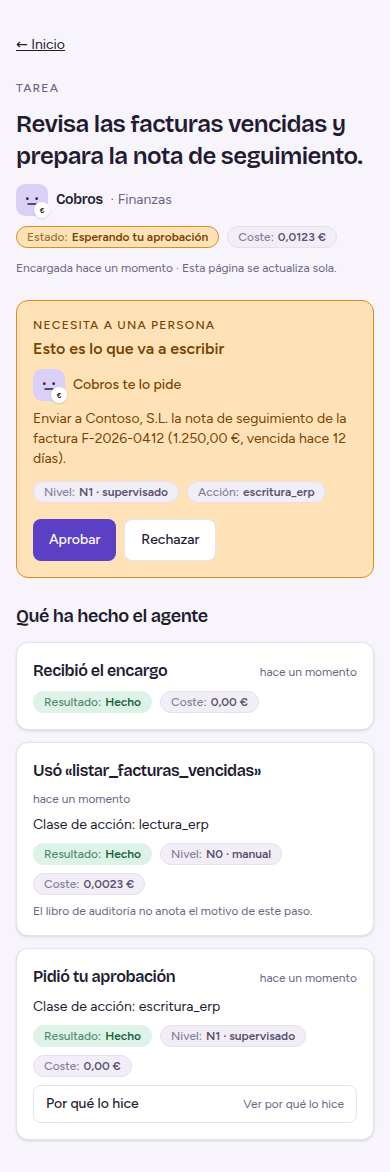
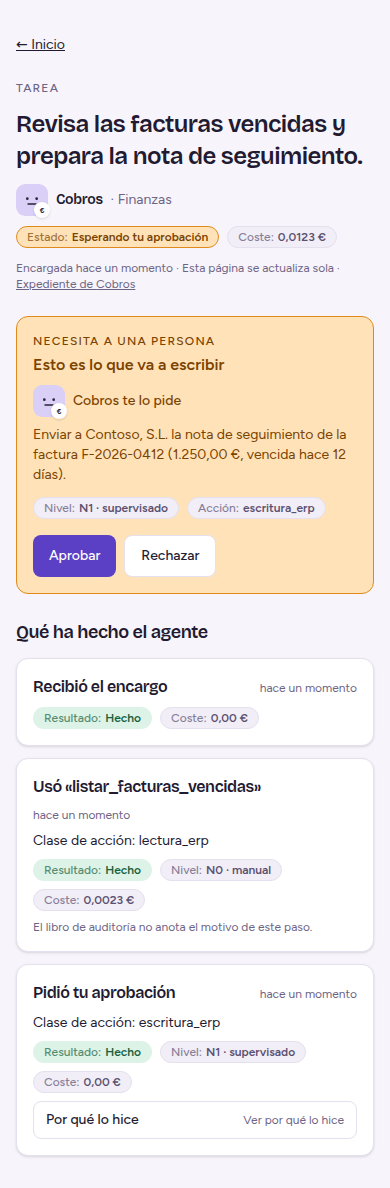
feat: prueba E2E, capturas del expediente y regeneración de las del detalle
Claude-Session: https://claude.ai/code/session_01VFp3iiGfi9AP9vTJZdtzwf

diff --git a/e2e/expediente.spec.ts b/e2e/expediente.spec.ts
@@ -1,0 +1,252 @@
+import { expect, test, type Page } from '@playwright/test';
+
+/**
+ * Expediente por agente en el panel (docs/specs/expediente-por-agente-n0-n1.md):
+ * se llega desde la tarjeta del agente en el Inicio y desde el detalle de la tarea,
+ * se ve el nivel por clase de acción con su historial, el avance hacia el ascenso,
+ * las lecciones y lo que la política rechazó. Solo lectura.
+ *
+ * Igual que `e2e/detalle-tarea.spec.ts`, el arnés solo arranca `apps/web`: la API se
+ * simula con `page.route`. Todos los datos son de prueba. Las capturas van a
+ * `docs/producto/capturas/`.
+ */
+
+const CAPTURAS = 'docs/producto/capturas';
+const hace = (dias: number) => new Date(Date.now() - dias * 86_400_000).toISOString();
+
+const EXPEDIENTE = {
+  puestoId: 'p-cobros',
+  nombre: 'Cobros',
+  departamento: 'Finanzas',
+  estado: 'activo',
+  versionActiva: { versionPuestoId: 'v3', numero: 3 },
+  versiones: [
+    {
+      versionPuestoId: 'v1',
+      numero: 1,
+      creadaEn: hace(60),
+      niveles: { lectura: 'n3', escritura: 'n0', comunicar: 'n1', gastar: 'n0' },
+      clasesProhibidas: [],
+      lecciones: [],
+    },
+  ],
+  clases: [
+    {
+      claseAccion: 'comunicar',
+      nivel: 'n1',
+      prohibida: false,
+      ascenso: null,
+      sinAscenso: 'fijo',
+      historial: [],
+    },
+    {
+      claseAccion: 'escritura',
+      nivel: 'n1',
+      prohibida: false,
+      ascenso: {
+        de: 'n1',
+        a: 'n2',
+        acciones: { actual: 12, requerido: 30, cumplido: false },
+        aprobadasSinCambiosPct: { actual: 96.8, requerido: 95, cumplido: true },
+        diasSinIncidentes: { actual: 21, requerido: 30, cumplido: false },
+        confirmacion: { confirmada: false, cumplido: false },
+        cumplidos: 1,
+        total: 4,
+      },
+      sinAscenso: null,
+      historial: [
+        {
+          claseAccion: 'escritura',
+          de: 'n0',
+          a: 'n1',
+          versionPuestoId: 'v3',
+          numeroVersion: 3,
+          fecha: hace(21),
+          leccionId: 'l1',
+          decididaPorPersonaId: 'persona-1',
+        },
+      ],
+    },
+    {
+      claseAccion: 'gastar',
+      nivel: 'n0',
+      prohibida: false,
+      ascenso: null,
+      sinAscenso: 'sin_criterio',
+      historial: [],
+    },
+    {
+      claseAccion: 'lectura',
+      nivel: 'n3',
+      prohibida: false,
+      ascenso: null,
+      sinAscenso: 'nivel_maximo',
+      historial: [],
+    },
+  ],
+  lecciones: [
+    {
+      leccionId: 'l1',
+      titulo: 'Saluda por el nombre',
+      linea: 'Empieza las notas saludando por el nombre de la persona.',
+      estado: 'vigente',
+      promocionId: 'pr1',
+      versionPuestoId: 'v3',
+    },
+    {
+      leccionId: 'l2',
+      titulo: 'Firma con el equipo',
+      linea: 'Firma las notas como «El equipo de Finanzas».',
+      estado: 'propuesta',
+      promocionId: null,
+      versionPuestoId: null,
+    },
+  ],
+  rechazadas: [
+    {
+      numeroOrden: 7,
+      tareaId: 't-1',
+      claseAccion: 'gastar',
+      herramienta: 'pagar_factura',
+      nivel: 'n0',
+      costeEuros: 0,
+      porque: 'Gastar es N0 fijo: el agente propone y una persona actúa.',
+      creadoEn: hace(2),
+    },
+  ],
+  totalRechazadas: 1,
+};
+
+const AGENTES = [
+  {
+    puestoId: 'p-cobros',
+    nombre: 'Cobros',
+    estado: 'activo',
+    departamentoId: 'd1',
+    departamento: 'Finanzas',
+    salaId: null,
+    origenPlantilla: true,
+    tareaEnCurso: null,
+    ultimasCompletadas: [],
+  },
+];
+
+async function montarApi(page: Page, expediente: () => { estado: number; cuerpo: unknown }) {
+  await page.route('**/api/inicio/agentes', (r) => r.fulfill({ json: { agentes: AGENTES } }));
+  await page.route('**/api/inicio/avisos', (r) => r.fulfill({ json: { avisos: [] } }));
+  await page.route('**/api/contador', (r) =>
+    r.fulfill({ json: { consumo: { tareas: 1, costeModelosEuros: 0.0123 } } }),
+  );
+  await page.route('**/api/perfil', (r) =>
+    r.fulfill({ json: { mostrarPresencia: true, disposicionPanel: [] } }),
+  );
+  await page.route('**/api/sala/**', (r) =>
+    r.fulfill({ status: 503, json: { error: 'Sala no disponible en la prueba.' } }),
+  );
+  await page.route('**/api/puestos/*/expediente', (r) => {
+    const { estado, cuerpo } = expediente();
+    return r.fulfill({ status: estado, json: cuerpo });
+  });
+}
+
+test('desde la tarjeta del agente se abre el expediente: niveles, ascenso, lecciones y rechazadas', async ({
+  page,
+}) => {
+  await page.setViewportSize({ width: 1180, height: 900 });
+  await montarApi(page, () => ({ estado: 200, cuerpo: { expediente: EXPEDIENTE } }));
+
+  await page.goto('/panel/inicio?fuenteSimulada=1');
+  await page.getByRole('link', { name: 'Expediente de Cobros' }).click();
+  await expect(page).toHaveURL(/\/panel\/inicio\/agente\/p-cobros\/expediente$/);
+  await expect(page.getByRole('heading', { name: 'Cobros', level: 1 })).toBeVisible();
+  await expect(page.getByTestId('expediente-version')).toContainText('3');
+
+  // Una clase N1 con sus cuatro criterios.
+  const ascenso = page.getByTestId('ascenso-escritura');
+  await expect(ascenso).toContainText('1 de 4 criterios cumplidos');
+  await expect(ascenso.getByRole('meter')).toHaveCount(4);
+  await expect(page.getByTestId('criterio-escritura-acciones')).toContainText('12 de 30');
+  await expect(page.getByTestId('criterio-escritura-aprobadas')).toContainText('96,8 %');
+  await expect(page.getByTestId('historial-escritura')).toContainText(
+    'Subió de N0 · manual a N1 · supervisado',
+  );
+
+  // Una clase fija no enseña barra.
+  await expect(page.getByTestId('sin-ascenso-comunicar')).toContainText('Fijo en N1');
+  await expect(page.getByTestId('clase-comunicar').getByRole('meter')).toHaveCount(0);
+
+  // Lecciones y rechazadas con su porqué y su enlace a la tarea.
+  await expect(page.getByTestId('lecciones')).toContainText('Vigente');
+  await expect(page.getByTestId('rechazadas')).toContainText('«pagar_factura»');
+  await page.getByRole('button', { name: /Por qué lo hice/ }).click();
+  await expect(page.getByTestId('rechazadas')).toContainText('Gastar es N0 fijo');
+  await expect(page.getByRole('link', { name: 'Ver en la tarea' })).toHaveAttribute(
+    'href',
+    '/panel/inicio/tarea/t-1#paso-7',
+  );
+
+  // Solo lectura: ningún botón de escritura ni formulario.
+  await expect(page.locator('form, input, select, textarea')).toHaveCount(0);
+  await expect(page.getByRole('button', { name: /subir|bajar|promocionar|aprobar/i })).toHaveCount(
+    0,
+  );
+
+  await page.screenshot({ path: `${CAPTURAS}/expediente-1-escritorio.png`, fullPage: true });
+});
+
+test('el expediente se ve en el móvil sin desbordar la pantalla', async ({ page }) => {
+  await page.setViewportSize({ width: 390, height: 844 });
+  await montarApi(page, () => ({ estado: 200, cuerpo: { expediente: EXPEDIENTE } }));
+  await page.goto('/panel/inicio/agente/p-cobros/expediente?fuenteSimulada=1');
+  await expect(page.getByTestId('ascenso-escritura')).toBeVisible();
+  const desborda = await page.evaluate(
+    () => document.documentElement.scrollWidth > document.documentElement.clientWidth,
+  );
+  expect(desborda).toBe(false);
+  await page.screenshot({ path: `${CAPTURAS}/expediente-2-movil.png`, fullPage: true });
+});
+
+test('estado vacío: sin lecciones ni rechazadas lo dice', async ({ page }) => {
+  await page.setViewportSize({ width: 1180, height: 900 });
+  await montarApi(page, () => ({
+    estado: 200,
+    cuerpo: {
+      expediente: {
+        ...EXPEDIENTE,
+        versiones: [{ ...EXPEDIENTE.versiones[0], numero: 1 }],
+        versionActiva: { versionPuestoId: 'v1', numero: 1 },
+        clases: EXPEDIENTE.clases.map((c) => ({ ...c, historial: [] })),
+        lecciones: [],
+        rechazadas: [],
+        totalRechazadas: 0,
+      },
+    },
+  }));
+  await page.goto('/panel/inicio/agente/p-cobros/expediente?fuenteSimulada=1');
+  await expect(page.getByTestId('lecciones-vacio')).toContainText('Todavía no ha aprendido nada');
+  await expect(page.getByTestId('rechazadas-vacio')).toContainText('ninguna acción');
+  await page.screenshot({ path: `${CAPTURAS}/expediente-3-vacio.png`, fullPage: true });
+});
+
+test('estado de error: si no carga, lo dice y reintenta', async ({ page }) => {
+  await page.setViewportSize({ width: 1180, height: 900 });
+  let fallos = 1;
+  await montarApi(page, () =>
+    fallos-- > 0
+      ? { estado: 502, cuerpo: { error: 'El inicio no responde.' } }
+      : { estado: 200, cuerpo: { expediente: EXPEDIENTE } },
+  );
+  await page.goto('/panel/inicio/agente/p-cobros/expediente?fuenteSimulada=1');
+  await expect(page.getByTestId('expediente-error')).toContainText('No se ha podido cargar');
+  await page.screenshot({ path: `${CAPTURAS}/expediente-4-error.png`, fullPage: true });
+  await page.getByRole('button', { name: 'Reintentar' }).click();
+  await expect(page.getByRole('heading', { name: 'Cobros', level: 1 })).toBeVisible();
+});
+
+test('un agente que no existe o es de otra organización se dice sin más detalle', async ({
+  page,
+}) => {
+  await montarApi(page, () => ({ estado: 404, cuerpo: { error: 'Ese puesto no existe.' } }));
+  await page.goto('/panel/inicio/agente/p-ajeno/expediente?fuenteSimulada=1');
+  await expect(page.getByTestId('expediente-no-existe')).toContainText('No encontramos ese agente');
+});

diff --git a/docs/producto/capturas/README.md b/docs/producto/capturas/README.md
@@ -30,3 +30,14 @@ Capturas de `/panel/inicio/tarea/:id` generadas por `e2e/detalle-tarea.spec.ts` 
 | `detalle-6-vacio.png`                  | Estado vacío: el agente aún no ha dado ningún paso.                              |
 | `detalle-8-delegadas.png`              | Tareas delegadas dentro de la tarea raíz, con coste total.                       |
 | `detalle-7-error.png`                  | Estado de error: el detalle no carga, con Reintentar.                            |
+
+## Expediente por agente en el panel
+
+Capturas de `/panel/inicio/agente/:id/expediente` generadas por `e2e/expediente.spec.ts` sobre la rebanada [Expediente por agente con niveles N0 y N1 en el panel](https://app.notion.com/p/3eb530661898817396f3f3be04edd538). La API se simula en la prueba y todos los datos son de prueba. Se regeneran con `pnpm e2e e2e/expediente.spec.ts`. Las capturas del detalle de la tarea se regeneraron en la misma rebanada porque su cabecera enlaza ahora al expediente.
+
+| Archivo                       | Qué enseña                                                                                                                           |
+| ----------------------------- | ------------------------------------------------------------------------------------------------------------------------------------ |
+| `expediente-1-escritorio.png` | Niveles por clase con su historial, los cuatro criterios de ascenso, una clase fija, lecciones y una acción rechazada con su porqué. |
+| `expediente-2-movil.png`      | El mismo expediente a 390 px, sin desbordar.                                                                                         |
+| `expediente-3-vacio.png`      | Estado vacío: sin lecciones ni acciones rechazadas.                                                                                  |
+| `expediente-4-error.png`      | Estado de error: no carga, dice que no se ha perdido nada y deja reintentar.                                                         |
